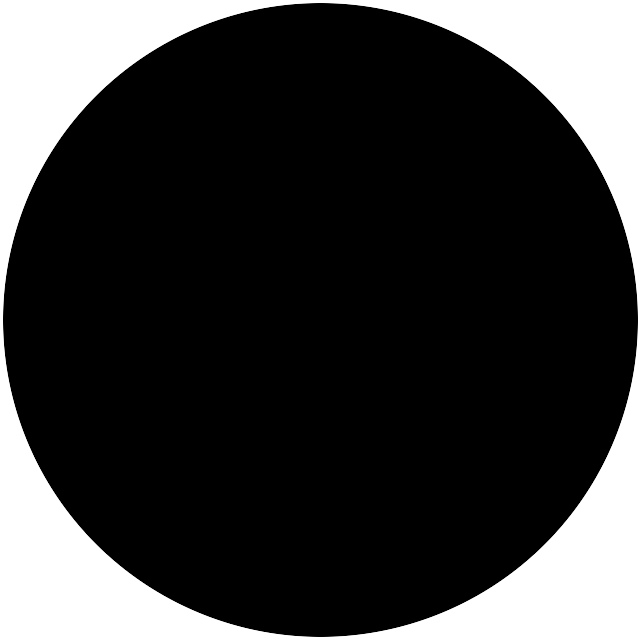
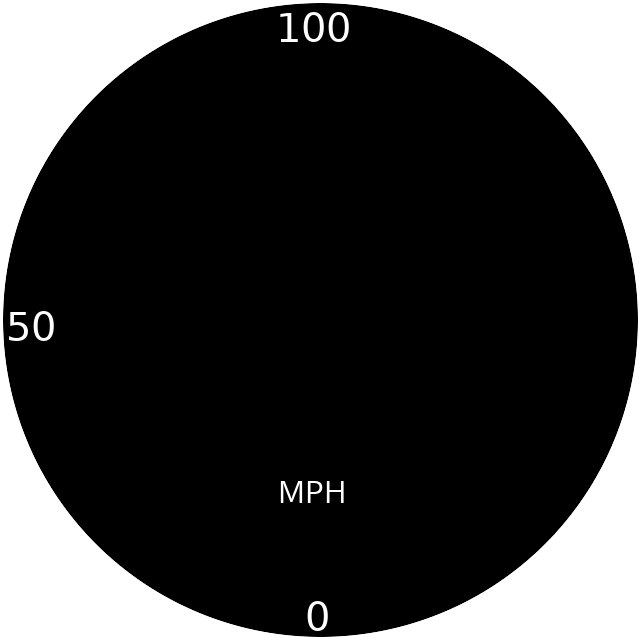
Added overlay_on_video script. Addec read csv script.

diff --git a/overlay_on_video.py b/overlay_on_video.py
@@ -1,0 +1,96 @@
+#!/usr/bin/python3
+
+import csv
+import ffmpeg
+import argparse
+from pprint import pprint
+from datetime import datetime
+from datetime import timedelta
+
+parser = argparse.ArgumentParser(description='script to combine video files into 1 file')
+parser.add_argument('-i', dest='input', help='video files to combine.', nargs='*')
+parser.add_argument('-o', dest='output', help='file to output the new video to.')
+parser.add_argument('-csv', dest='csv', help='CSV file to gather overlay data.')
+
+args = parser.parse_args()
+output_file = args.output
+file_list = args.input
+csv_file = args.csv
+
+ffmpeg_inputs = list()
+video_time = dict()
+
+import_image = ffmpeg.input('images/circle_with_needle.png')
+
+first_time = None
+last_time = None
+
+for file in file_list:
+    ffmpeg_input = ffmpeg.input(file)
+    ffmpeg_inputs.append(ffmpeg_input['v'])
+    ffmpeg_inputs.append(ffmpeg_input['a'])
+
+    probe = ffmpeg.probe(file)
+    video_stream = next((stream for stream in probe['streams'] if stream['codec_type'] == 'video'), None)
+    creation_time = datetime.strptime(video_stream['tags']['creation_time'], '%Y-%m-%dT%H:%M:%S.%fZ') + timedelta(seconds=280)
+    end_time = creation_time + timedelta(seconds=int(float(video_stream['duration'] ))) + timedelta(seconds=280)
+    video_time[file] = {'creation_time': creation_time, 'end_time': end_time}
+
+    if not first_time or creation_time < first_time:
+        first_time = creation_time
+    if not last_time or end_time > last_time:
+        last_time = end_time
+
+#pprint(video_time)
+#pprint(first_time) 
+concated = ffmpeg.concat(*ffmpeg_inputs, v=1, a=1)
+joined = concated.node
+v = joined[0]
+#v= joined[0].overlay(import_image, x=500, y=500, enable='between(t,0,20)')
+
+data = list()
+with open(csv_file) as f:
+    reader = csv.DictReader(f)
+    data = [r for r in reader]
+
+from pandas import read_csv
+from pandas import datetime
+from matplotlib import pyplot
+
+
+def parser_func(x):
+    return datetime.strptime(x, '%d-%b-%Y %H:%M:%S.%f')
+
+series = read_csv(csv_file, header=0, parse_dates=[0], index_col=0, squeeze=True, date_parser=parser_func)
+
+resample = series.resample('S')
+secondly_mean_values = resample.mean()
+#pprint(secondly_mean_values.to_dict())
+#secondly_mean_values.plot()
+#pyplot.show()
+
+
+processing_time = 0
+for i in range(len(data)):
+    log_entry = data[i]
+    try:
+        next_log_entry = data[i+1]
+    except IndexError:
+        continue
+    log_entry_time = datetime.strptime(log_entry['Device Time'], '%d-%b-%Y %H:%M:%S.%f')
+    next_log_entry_time = datetime.strptime(next_log_entry['Device Time'], '%d-%b-%Y %H:%M:%S.%f')
+    if log_entry_time > first_time and log_entry_time < last_time:
+        log_diff = next_log_entry_time - log_entry_time
+        processing_time += log_diff.total_seconds()
+        #pprint(processing_time)
+        #pprint(log_diff.total_seconds())
+        vehicle_speed =int(float(log_entry['Speed (OBD)(mph)']))
+        #pprint(vehicle_speed)
+        v = v.drawtext(text=vehicle_speed, fontsize=100, enable='between(t,' + str(int(float(processing_time))) + ',' + str(int(float(log_diff.total_seconds() + processing_time))) + ')')
+
+
+a = joined[1]
+out = ffmpeg.output(v, a, output_file, vcodec="h264_nvenc", preset="default",
+                    pixel_format="yuva444p", video_bitrate="30M",  bufsize="30M")
+#print(' '.join(out.compile()))
+#out.run()

diff --git a/read_csv.py b/read_csv.py
@@ -3,6 +3,17 @@
 import csv
 import argparse
 
-parser = argparse.ArgumentParser(description='script to output ')
-parser.add_argument('-i', dest='input', help='video files to combine.', nargs='*')
-parser.add_argument('-o', dest='output', help='file to output the new video to.')
+from pprint import pprint
+
+parser = argparse.ArgumentParser(description='script to read a CSV file')
+parser.add_argument('-i', dest='input', help='video files to combine.')
+
+args = parser.parse_args()
+file_input = args.input
+data = list()
+
+with open(file_input) as f:
+    reader = csv.DictReader(f)
+    data = [r for r in reader]
+
+pprint(data)
